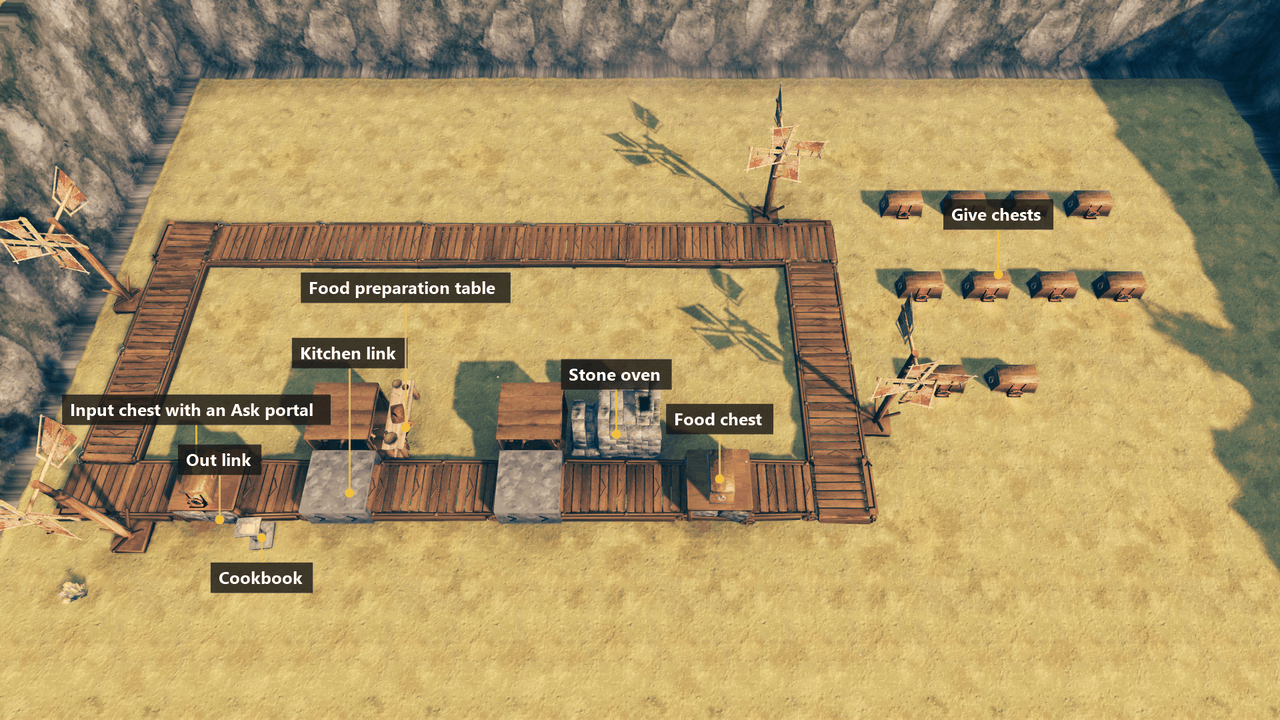
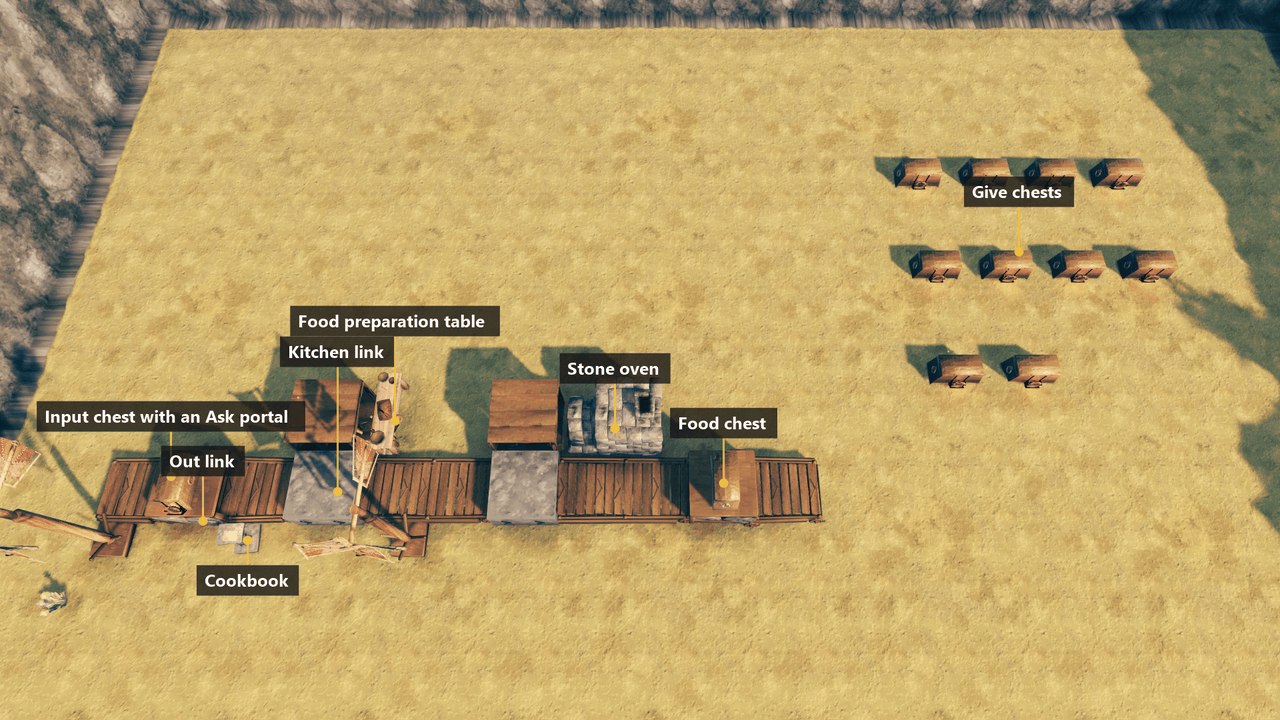
The example kitchen on a straight belt: the picture and the GIF filmed again with no loop, and the captions say the table keeps its bread dough (#487)

diff --git a/README.md b/README.md
@@ -8,7 +8,7 @@ Wooden belts that move your items and your creatures for you. Build a small fact
 
 ## What is new in 0.7.1
 
-![One card makes fish 'n' bread, sped up: anglerfish and barley flour come out of the input chest, the table's chef makes bread dough, it rides round the loop and back, the oven bakes the meal, and it rides into the food chest](https://raw.githubusercontent.com/Preyvik/valheim-conveyor-belts-page/main/media/kitchen-example.gif)
+![One card makes fish 'n' bread, sped up: anglerfish and barley flour come out of the input chest, the table's chef makes bread dough and then raw fish 'n' bread from it, the oven bakes the meal, and it rides into the food chest](https://raw.githubusercontent.com/Preyvik/valheim-conveyor-belts-page/main/media/kitchen-example.gif)
 
 The kitchen now takes only what it needs. "How a kitchen works" below shows a whole one.
 
@@ -45,15 +45,15 @@ Build them all with the hammer, in the **Misc** tab.
 
 Everything a kitchen link cooks comes on its belt. Here is a whole kitchen. One cookbook card for fish 'n' bread runs all of it.
 
-![The example kitchen from above: the Give chests, the input chest with an Ask portal on its Out link, the cookbook, the food preparation table and the stone oven on kitchen links along one belt loop, and the food chest](https://raw.githubusercontent.com/Preyvik/valheim-conveyor-belts-page/main/media/kitchen-example.png)
+![The example kitchen from above: the Give chests, the input chest with an Ask portal on its Out link, the cookbook, the food preparation table and the stone oven on kitchen links along one straight belt, and the food chest](https://raw.githubusercontent.com/Preyvik/valheim-conveyor-belts-page/main/media/kitchen-example.png)
 
-**Build the stations on one belt, in the order of the steps.** The food preparation table makes bread dough, then raw fish 'n' bread. The oven bakes it last.
+**Build the stations on one belt, in the order of the steps.** The food preparation table makes bread dough, keeps it, and makes raw fish 'n' bread from it. The oven bakes it last.
 
 **Ask the cookbook only for the final meal.** Add fish 'n' bread, not bread dough. The kitchen makes the steps between.
 
 **Put an Ask portal on the input chest, and Give portals on your storage chests.** A link set to Out under the input chest puts what comes in on the belt. Only the raw food and wood that the cookbook needs come in.
 
-![One card makes fish 'n' bread, sped up: anglerfish and barley flour come out of the input chest, the table's chef makes bread dough, it rides round the loop and back, the oven bakes the meal, and it rides into the food chest](https://raw.githubusercontent.com/Preyvik/valheim-conveyor-belts-page/main/media/kitchen-example.gif)
+![One card makes fish 'n' bread, sped up: anglerfish and barley flour come out of the input chest, the table's chef makes bread dough and then raw fish 'n' bread from it, the oven bakes the meal, and it rides into the food chest](https://raw.githubusercontent.com/Preyvik/valheim-conveyor-belts-page/main/media/kitchen-example.gif)
 
 ### Wood when the fire runs low
 
